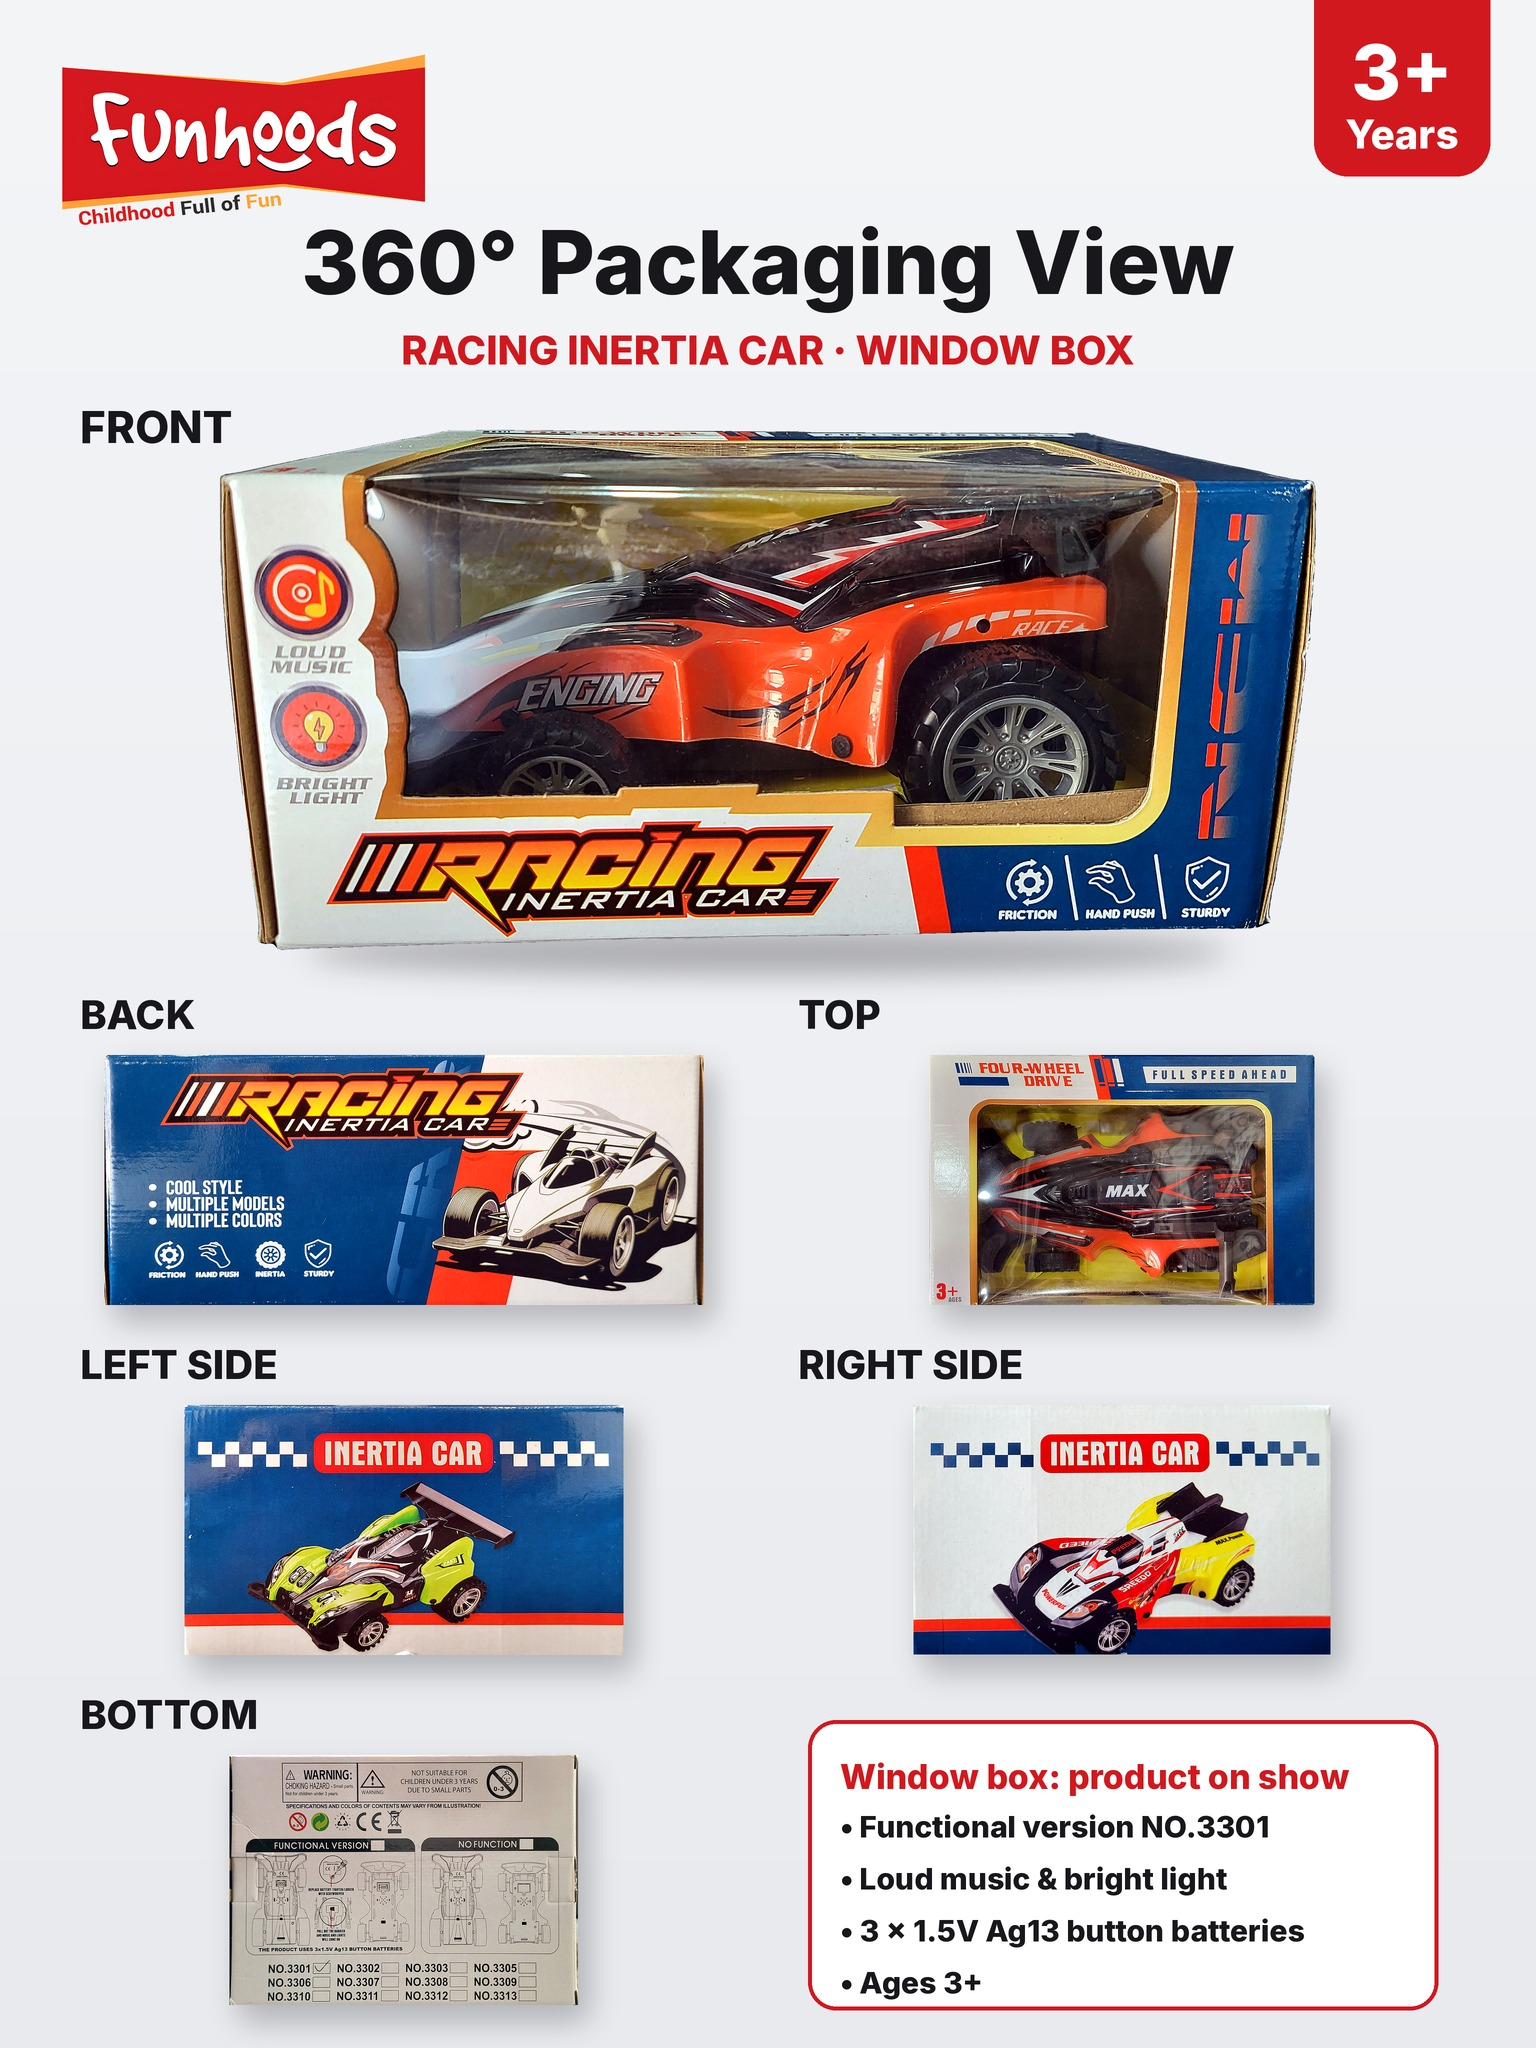
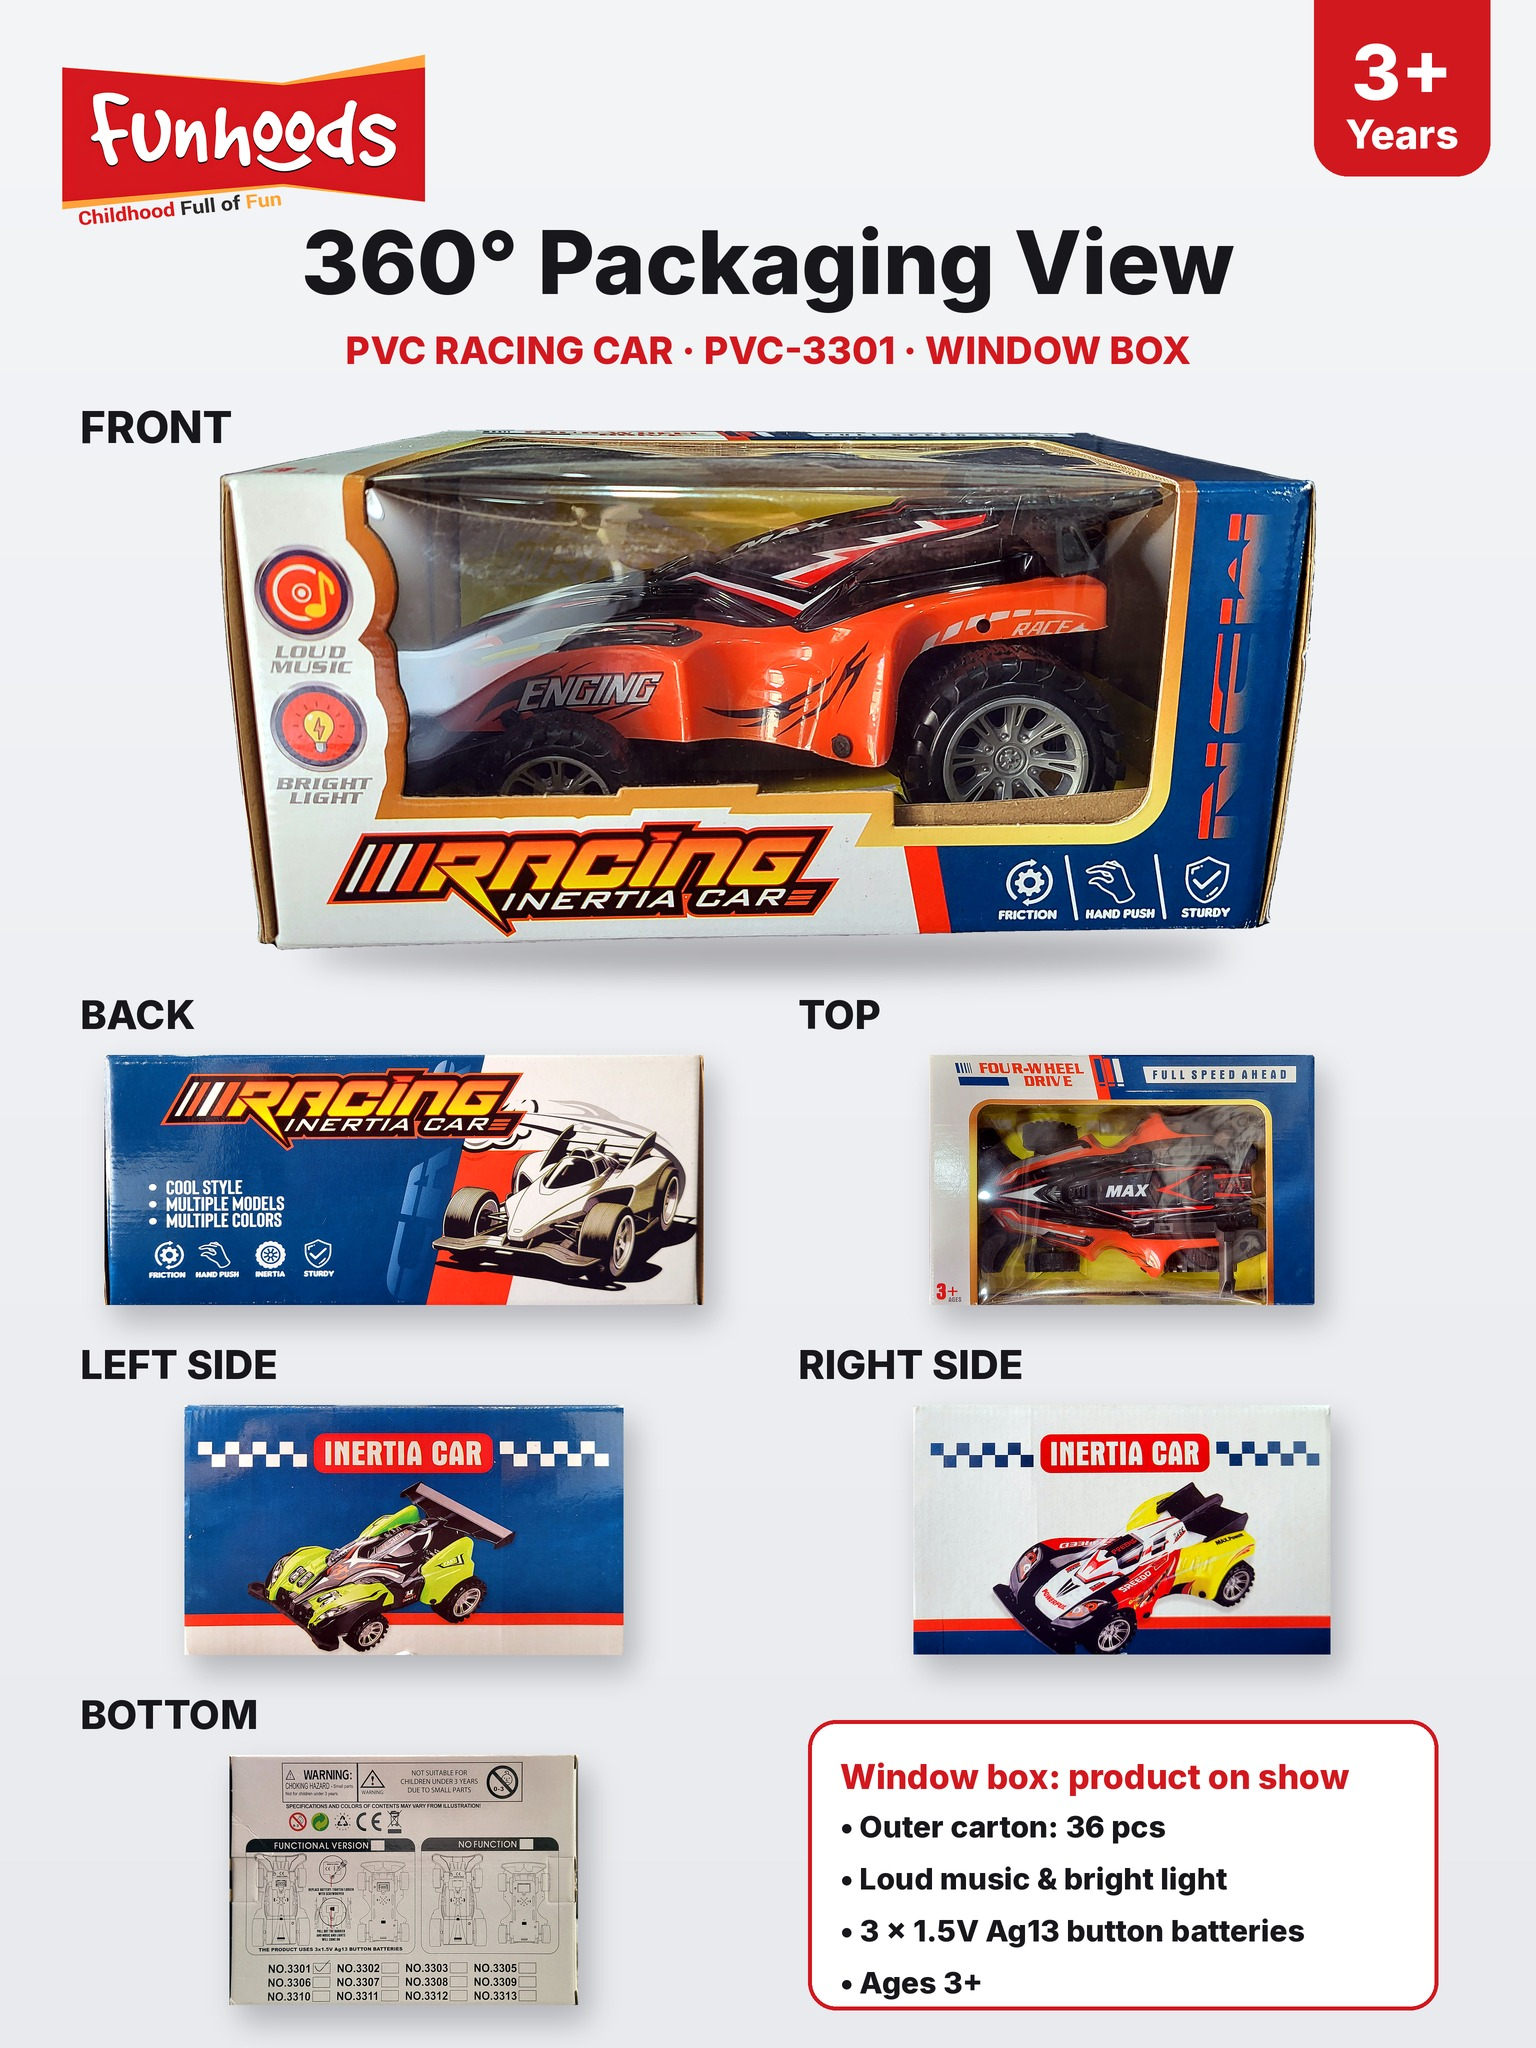
PVC Racing Car (PVC-3301): script v2 with catalogue details (36 pcs/carton), storyboard v2, sheets updated
Claude-Session: https://claude.ai/code/session_01TrzPFdJeCE1FnkyMfPomRM

Changed region(s): [[0.2188, 0.1562, 0.7812, 0.1875], [0.5625, 0.875, 0.8125, 0.9062]]

diff --git a/funhoods-racing-car/tools/storyboard.py b/funhoods-racing-car/tools/storyboard.py
@@ -102,10 +102,10 @@ def panel(i):
     elif i == 7:
         for (x, y) in [(130, 430), (302, 430), (216, 330)]:
             d.polygon([(x - 70, y - 40), (x + 70, y - 40), (x + 84, y - 54), (x - 56, y - 54)], fill=(226, 186, 136)); d.rectangle((x - 70, y - 40, x + 70, y + 46), fill=(206, 160, 108))
-            d.polygon([(x + 70, y - 40), (x + 84, y - 54), (x + 84, y + 32), (x + 70, y + 46)], fill=(176, 128, 80)); d.text((x, y + 8), '[N] PCS', font=f(F_H, 24), fill=RED, anchor='mm')
+            d.polygon([(x + 70, y - 40), (x + 84, y - 54), (x + 84, y + 32), (x + 70, y + 46)], fill=(176, 128, 80)); d.text((x, y + 8), '36 PCS', font=f(F_H, 24), fill=RED, anchor='mm')
         d.rounded_rectangle((90, 560, 260, 640), 10, fill=YEL); d.polygon([(262, 584), (312, 584), (336, 612), (336, 640), (262, 640)], fill=RED)
         for x in (124, 222, 312): d.ellipse((x - 18, 630, x + 18, 666), fill=INK)
-        txt(d, '[N] PCS', PW / 2, 180, 62, YEL, F_I, 3, RED); txt(d, 'PER CARTON', PW / 2, 236, 38); txt(d, 'PAN INDIA DELIVERY', PW / 2, 700, 30)
+        txt(d, '36 PCS', PW / 2, 180, 62, YEL, F_I, 3, RED); txt(d, 'PER CARTON', PW / 2, 236, 38); txt(d, 'PAN INDIA DELIVERY', PW / 2, 700, 30)
     elif i == 8:
         txt(d, 'FOR', PW / 2, 160, 18, RED, F_B); txt(d, 'DISTRIBUTORS', PW / 2, 206, 46); txt(d, '& WHOLESALERS', PW / 2, 256, 40, YEL, F_H, 2, RED)
         for k, x in enumerate((90, 216, 342)): put(c, 'box_q34', x, 420 + (k % 2) * 6, 150)
@@ -115,25 +115,25 @@ def panel(i):
         d.polygon([(0, 0), (PW, 0), (PW, 110), (PW / 2, 140), (0, 110)], fill=RED); d.polygon([(0, PH), (PW, PH), (PW, PH - 80), (0, PH - 104)], fill=RED)
         lg = Image.open(A('logo_rgba.png')).convert('RGBA'); w = 320; lg = lg.resize((w, int(lg.height * w / lg.width)), Image.LANCZOS); c.alpha_composite(lg, (int(PW / 2 - w / 2), 180))
         put(c, 'car_q34', 150, 440, 230); put(c, 'box_q34', 318, 446, 190)
-        d.text((PW / 2, 548), 'RACING INERTIA CAR • 3+ AGES', font=f(F_B, 17), fill=RED, anchor='mm'); chip(d, 'BULK ORDERS ONLY', PW / 2, 594, 20, RED, WHITE)
-        chip(d, '[N] PCS / CARTON', 140, 640, 15); chip(d, 'PAN INDIA DELIVERY', 300, 640, 15)
+        d.text((PW / 2, 548), 'PVC RACING CAR • PVC-3301 • 3+ AGES', font=f(F_B, 17), fill=RED, anchor='mm'); chip(d, 'BULK ORDERS ONLY', PW / 2, 594, 20, RED, WHITE)
+        chip(d, '36 PCS / CARTON', 140, 640, 15); chip(d, 'PAN INDIA DELIVERY', 300, 640, 15)
         return c
     logo(c); return c
 
 ROWS = [('0.0–3.0', 'On your marks... get set... VROOM!', 'Start lights count down, the car shoots in. Rev + zoom SFX'),
-        ('3.0–5.5', 'Say hello to the Funhoods Racing Inertia Car!', '360° turntable: front → side → back'),
+        ('3.0–5.5', 'Say hello to the Funhoods Racing Car!', '360° turntable: front → side → back'),
         ('5.5–9.0', 'Give it a push... let go... and watch it race!', 'Glove pushes, lets go, the car races off. Friction + zoom SFX'),
         ('9.0–12.0', 'Press the roof... bright lights and loud music!', 'Finger press, headlights glow, notes burst. Music jingle'),
         ('12.0–15.0', 'Four-wheel drive, a sturdy body and chunky tyres.', 'Callouts draw on, wheels spin'),
         ('15.0–18.0', 'Cool style, multiple models, multiple colours!', "The box's car artworks pop in a row"),
         ('18.0–21.5', 'A bold window box that grabs every eye in the store.', 'Box turns front → side → back, lands on a counter'),
-        ('21.5–25.0', '[N] pieces per carton, shipped anywhere in India.', 'Cartons stack, the Funhoods truck drives in'),
+        ('21.5–25.0', 'Thirty-six pieces per carton, shipped anywhere in India.', 'Cartons stack, the Funhoods truck drives in'),
         ('25.0–28.8', 'Distributors and wholesalers, stock up for the season!', 'Boxes line up · BULK ORDERS ONLY · STOCK UP NOW!'),
         ('28.8–32.0', 'Funhoods, Childhood Full of Fun!', 'End card · final hit, fade')]
 COLS, CAP = 5, 150
 board = Image.new('RGB', (COLS * (PW + 24) + 24, 2 * (PH + CAP + 24) + 120), (246, 246, 248)); bd = ImageDraw.Draw(board)
-bd.text((24, 30), 'Funhoods · Racing Inertia Car · 32 s reel · Storyboard v1', font=f(F_B, 38), fill=INK)
-bd.text((24, 78), 'White-background motion graphics · B2B (distributors & wholesalers) · Funhoods logo top-left · [N] = carton count (to confirm)', font=f(F_B, 20), fill=(110, 110, 120))
+bd.text((24, 30), 'Funhoods · PVC Racing Car (PVC-3301) · 32 s reel · Storyboard v2', font=f(F_B, 38), fill=INK)
+bd.text((24, 78), 'White-background motion graphics · B2B (distributors & wholesalers) · Funhoods logo top-left · 36 pcs / carton', font=f(F_B, 20), fill=(110, 110, 120))
 for i in range(10):
     x, y = 24 + (i % COLS) * (PW + 24), 120 + (i // COLS) * (PH + CAP + 24)
     p = panel(i).convert('RGB'); board.paste(p, (x, y)); bd.rectangle((x, y, x + PW - 1, y + PH - 1), outline=(200, 200, 205), width=2)

diff --git a/funhoods-racing-car/tools/sheets.py b/funhoods-racing-car/tools/sheets.py
@@ -65,7 +65,7 @@ def save(im, name):
 # ---------------------------------------------------------------- 360° product view
 im, d = base()
 label(d, '360° Product View', DW / 2, 262, 92, INK, 'mm')
-label(d, 'RACING INERTIA CAR', DW / 2, 350, 40, RED, 'mm')
+label(d, 'PVC RACING CAR · PVC-3301', DW / 2, 350, 40, RED, 'mm')
 cells = [('FRONT', 'car_front'), ('SIDE', 'car_side'), ('BACK', 'car_back'), ('OTHER SIDE', 'car_side_r'),
          ('3/4 FRONT', 'car_q34'), ('3/4 REAR', 'car_back34')]
 for i, (lbl, n) in enumerate(cells):
@@ -80,7 +80,7 @@ save(im, 'Racing_Inertia_Car_360_Product_View')
 # ---------------------------------------------------------------- 360° packaging view
 im, d = base()
 label(d, '360° Packaging View', DW / 2, 262, 88, INK, 'mm')
-label(d, 'RACING INERTIA CAR · WINDOW BOX', DW / 2, 350, 40, RED, 'mm')
+label(d, 'PVC RACING CAR · PVC-3301 · WINDOW BOX', DW / 2, 350, 38, RED, 'mm')
 label(d, 'FRONT', 80, 400, 44)
 put(im, 'box_q34', DW / 2, 690, 1180, 520)
 grid = [('BACK', 'box_back'), ('TOP', 'box_top'), ('LEFT SIDE', 'box_end_l'), ('RIGHT SIDE', 'box_end_r'), ('BOTTOM', 'box_bottom')]
@@ -90,7 +90,7 @@ for i, (lbl, n) in enumerate(grid):
     put(im, n, x0 + 334, y0 + 190, 600, 250, card=True)
 x0, y0 = 70 + 718, 990 + 2 * 350                                  # info card next to BOTTOM
 d.rounded_rectangle(((x0 + 20) * S, (y0 + 30) * S, (x0 + 650) * S, (y0 + 320) * S), 28 * S, fill='white', outline=RED, width=4 * S)
-for k, t in enumerate(['Window box: product on show', 'Functional version NO.3301', 'Loud music & bright light',
+for k, t in enumerate(['Window box: product on show', 'Outer carton: 36 pcs', 'Loud music & bright light',
                        '3 x 1.5V Ag13 button batteries', 'Ages 3+']):
     label(d, ('• ' if k else '') + t, x0 + 52, y0 + 66 + k * 52, 30 if k else 34, RED if k == 0 else INK)
 save(im, 'Racing_Inertia_Car_360_Packaging_View')

diff --git a/funhoods-racing-car/SCRIPT.md b/funhoods-racing-car/SCRIPT.md
@@ -1,7 +1,10 @@
-# Funhoods — Racing Inertia Car · VO script v1 + storyboard (draft for approval)
+# Funhoods — PVC Racing Car (PVC-3301) · VO script v2 + storyboard (draft for approval)
 
 Reel: **32 s** · 9:16 · white-background motion graphics (same system as the Dino Car / Fighter Jets reels) · B2B
 (distributors & wholesalers only) · no phone number · real photos/videos are reference only.
+
+Catalogue (FUNHOODS_02.pdf, p. 25, "Upcoming"): **PVC Racing Car · PVC-3301 · outer carton 36 pcs · Inertia car** (free wheel).
+The catalogue picture shows it in orange and in blue. No certification is listed for it.
 
 Product facts, from the box and the demo videos in Drive (1 Nov):
 - RACING INERTIA CAR, friction / hand push / inertia ("FULL SPEED AHEAD")
@@ -11,19 +14,18 @@ Product facts, from the box and the demo videos in Drive (1 Nov):
 - Left out on purpose:
   - "no batteries" (the lights and music use button batteries)
   - BIS / Made in India (neither is printed on this box)
-  - carton count (not given yet)
 
-## VO (English, energetic and cute, about 77 words, about 31 s; SFX are generated separately and sit in the pauses)
+## VO v2 (English, energetic and cute, about 76 words, about 31 s; SFX are generated separately and sit in the pauses)
 
 ```
 [excited] On your marks... get set... VROOM!
-Say hello to the Funhoods Racing Inertia Car!
+Say hello to the Funhoods Racing Car!
 Give it a push... let go... and watch it race!
 Press the roof... bright lights and loud music!
 Four-wheel drive, a sturdy body and chunky tyres.
 Cool style, multiple models, multiple colours!
 A bold window box that grabs every eye in the store.
-[N] pieces per carton, shipped anywhere in India.
+Thirty-six pieces per carton, shipped anywhere in India.
 Distributors and wholesalers, stock up for the season!
 [cheerful] Funhoods — Childhood Full of Fun!
 ```
@@ -33,14 +35,14 @@ Distributors and wholesalers, stock up for the season!
 | # | Time | VO | On screen | Motion / SFX |
 |---|---|---|---|---|
 | 1 | 0.0–3.0 | On your marks... get set... VROOM! | Racing start lights (red → red → green) over the white sunburst · "ON YOUR MARKS · GET SET · VROOM!" | Beeps on each light, then the car shoots in from the left with speed lines and a skid · *engine rev + zoom SFX* |
-| 2 | 3.0–5.5 | Say hello to the Funhoods Racing Inertia Car! | Car on a turntable: front → side → back (360° spin from the product photos) · "RACING INERTIA CAR" logo from the box | Turntable spin, sparkles · *whoosh* |
+| 2 | 3.0–5.5 | Say hello to the Funhoods Racing Car! | Car on a turntable: front → side → back (360° spin from the product photos) · "RACING INERTIA CAR" logo from the box | Turntable spin, sparkles · *whoosh* |
 | 3 | 5.5–9.0 | Give it a push... let go... and watch it race! | HOW IT WORKS: side view, a glove pushes the car (wheels spin, friction rings), lets go, the car races off · chips FRICTION · HAND PUSH · INERTIA | *Friction ratchet → zoom SFX*, dust puff, speed lines |
 | 4 | 9.0–12.0 | Press the roof... bright lights and loud music! | Front view close-up: finger presses the roof → headlights glow and pulse, music notes burst · badges LOUD MUSIC · BRIGHT LIGHT (box icons) | Light flare, *toy music jingle SFX* |
 | 5 | 12.0–15.0 | Four-wheel drive, a sturdy body and chunky tyres. | Side view with callouts: FOUR-WHEEL DRIVE (all 4 wheels highlighted) · STURDY BODY · CHUNKY TYRES | Callout lines draw on, wheel spin, *thock* |
 | 6 | 15.0–18.0 | Cool style, multiple models, multiple colours! | The box's car artworks (orange, green, red/yellow, white) pop in a row · COOL STYLE · MULTIPLE MODELS · MULTIPLE COLORS | Pops in rhythm, *chime* |
 | 7 | 18.0–21.5 | A bold window box that grabs every eye in the store. | 360° packaging: the box turns front → side → back, lands on a shop counter · EYE-CATCHING WINDOW BOX | Box spin, landing bounce, sparkles |
-| 8 | 21.5–25.0 | [N] pieces per carton, shipped anywhere in India. | [N] PCS PER CARTON: cartons drop and stack · a Funhoods truck drives in · PAN INDIA DELIVERY | Carton thuds, truck horn |
+| 8 | 21.5–25.0 | Thirty-six pieces per carton, shipped anywhere in India. | 36 PCS PER CARTON: cartons drop and stack · a Funhoods truck drives in · PAN INDIA DELIVERY | Carton thuds, truck horn |
 | 9 | 25.0–28.8 | Distributors and wholesalers, stock up for the season! | FOR DISTRIBUTORS & WHOLESALERS · boxes line up on the shelf · BULK ORDERS ONLY · STOCK UP NOW! | Burst, impact hit |
-| 10 | 28.8–32.0 | Funhoods — Childhood Full of Fun! | End card: Funhoods logo, car + box, RACING INERTIA CAR • 3+ AGES · BULK ORDERS ONLY · PAN INDIA DELIVERY · box disclaimer | Final hit, fade |
+| 10 | 28.8–32.0 | Funhoods — Childhood Full of Fun! | End card: Funhoods logo, car + box, PVC RACING CAR • PVC-3301 • 3+ AGES, 36 PCS / CARTON, · BULK ORDERS ONLY · PAN INDIA DELIVERY · box disclaimer | Final hit, fade |
 
 Funhoods logo top-left on every scene. Music will be a new Mixkit track, different from the earlier reels. Product cut-outs get a light colour grade.
